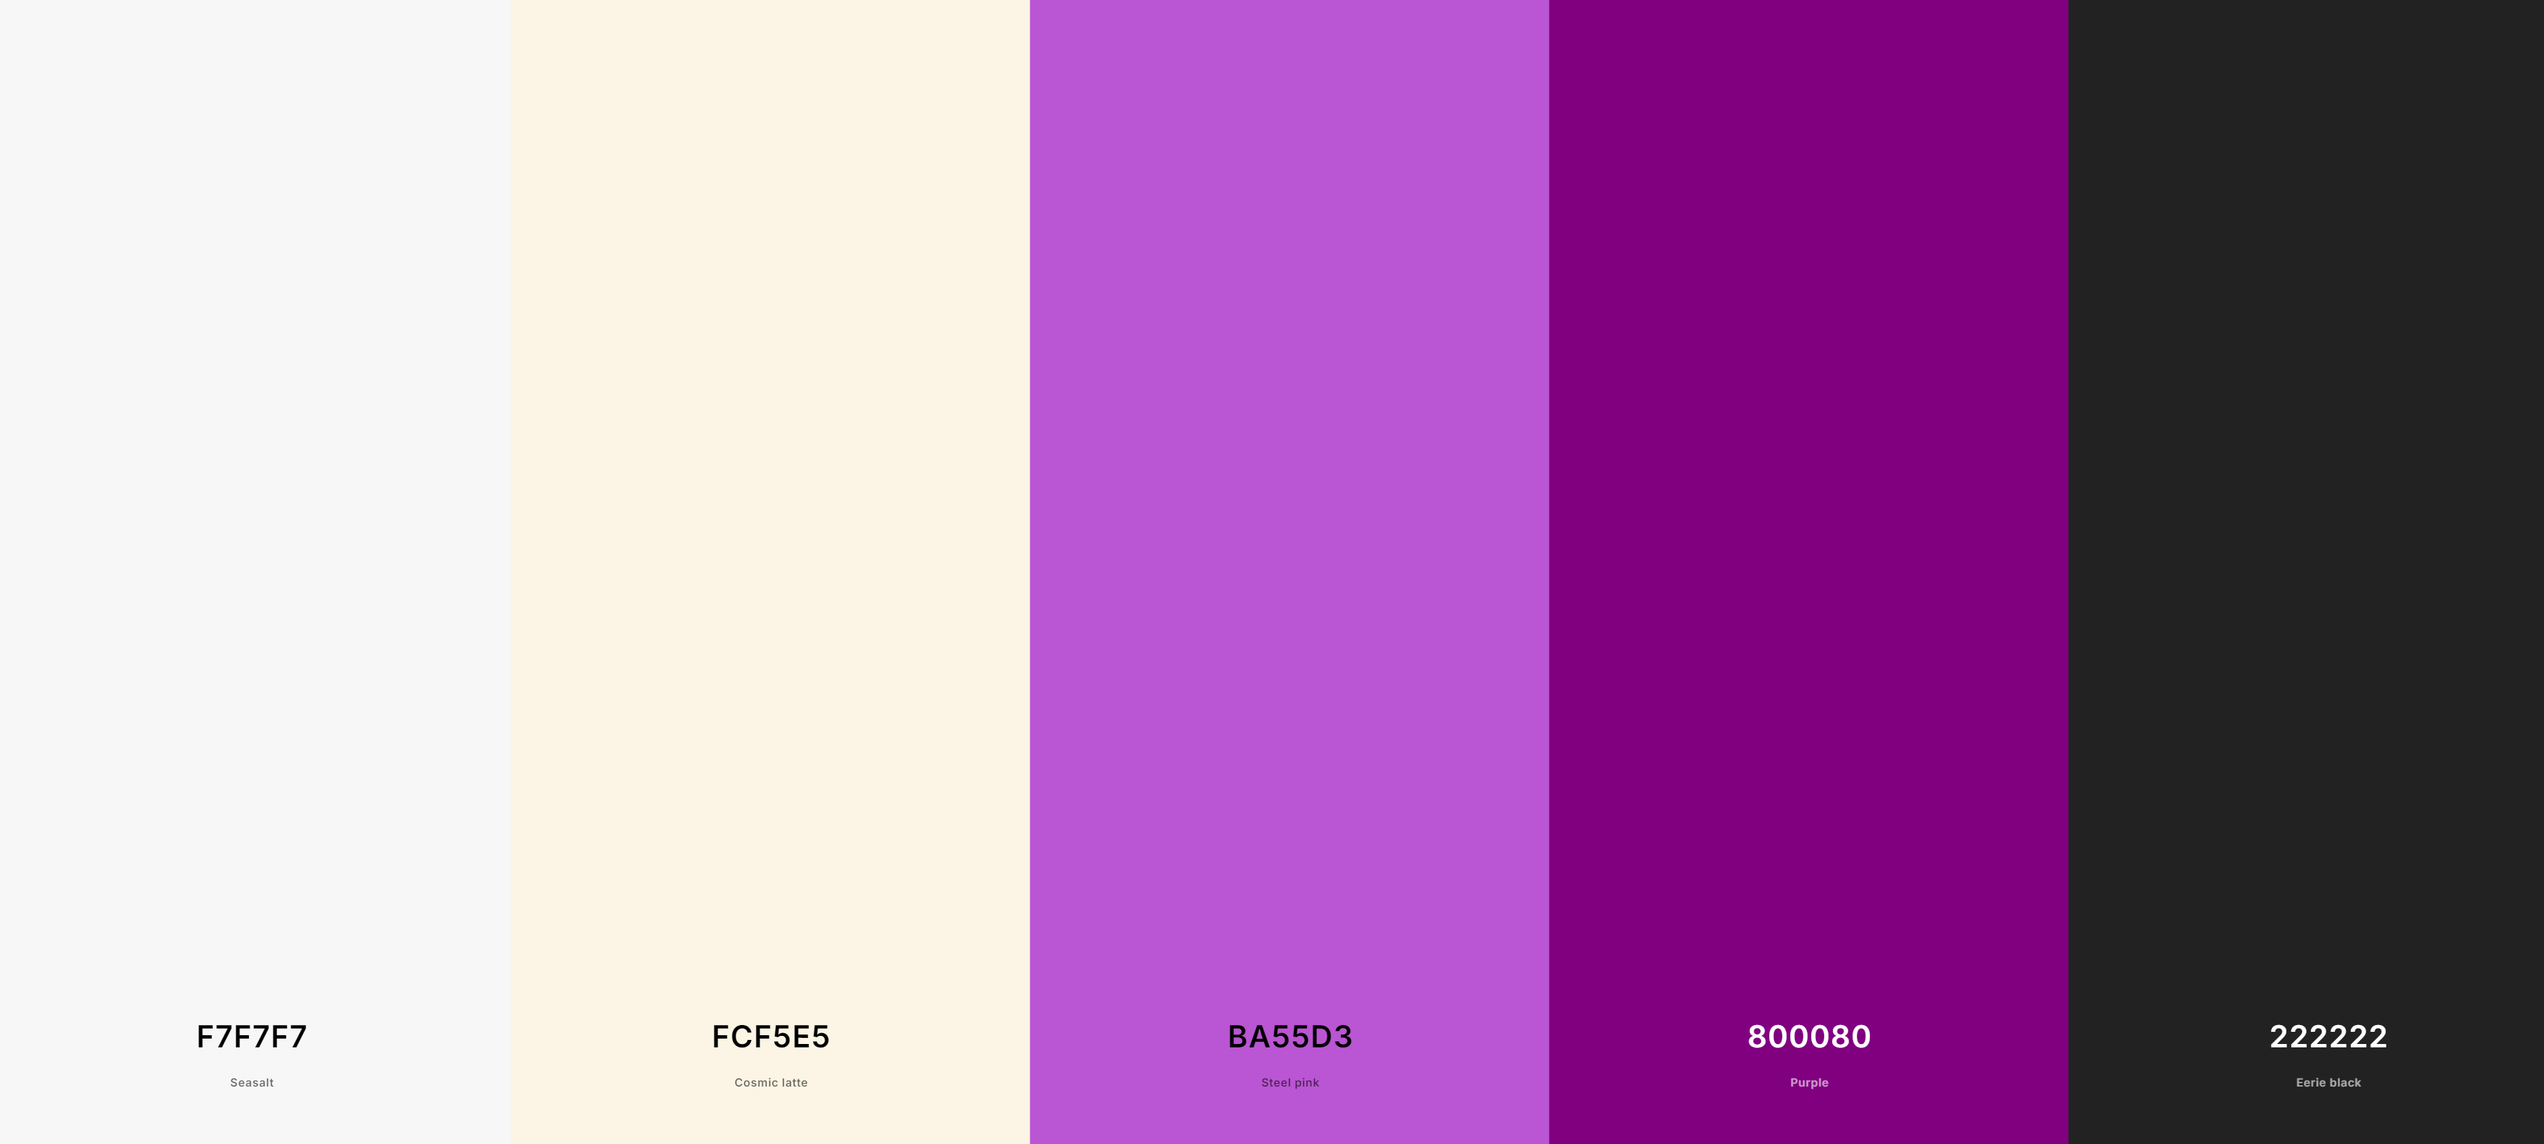
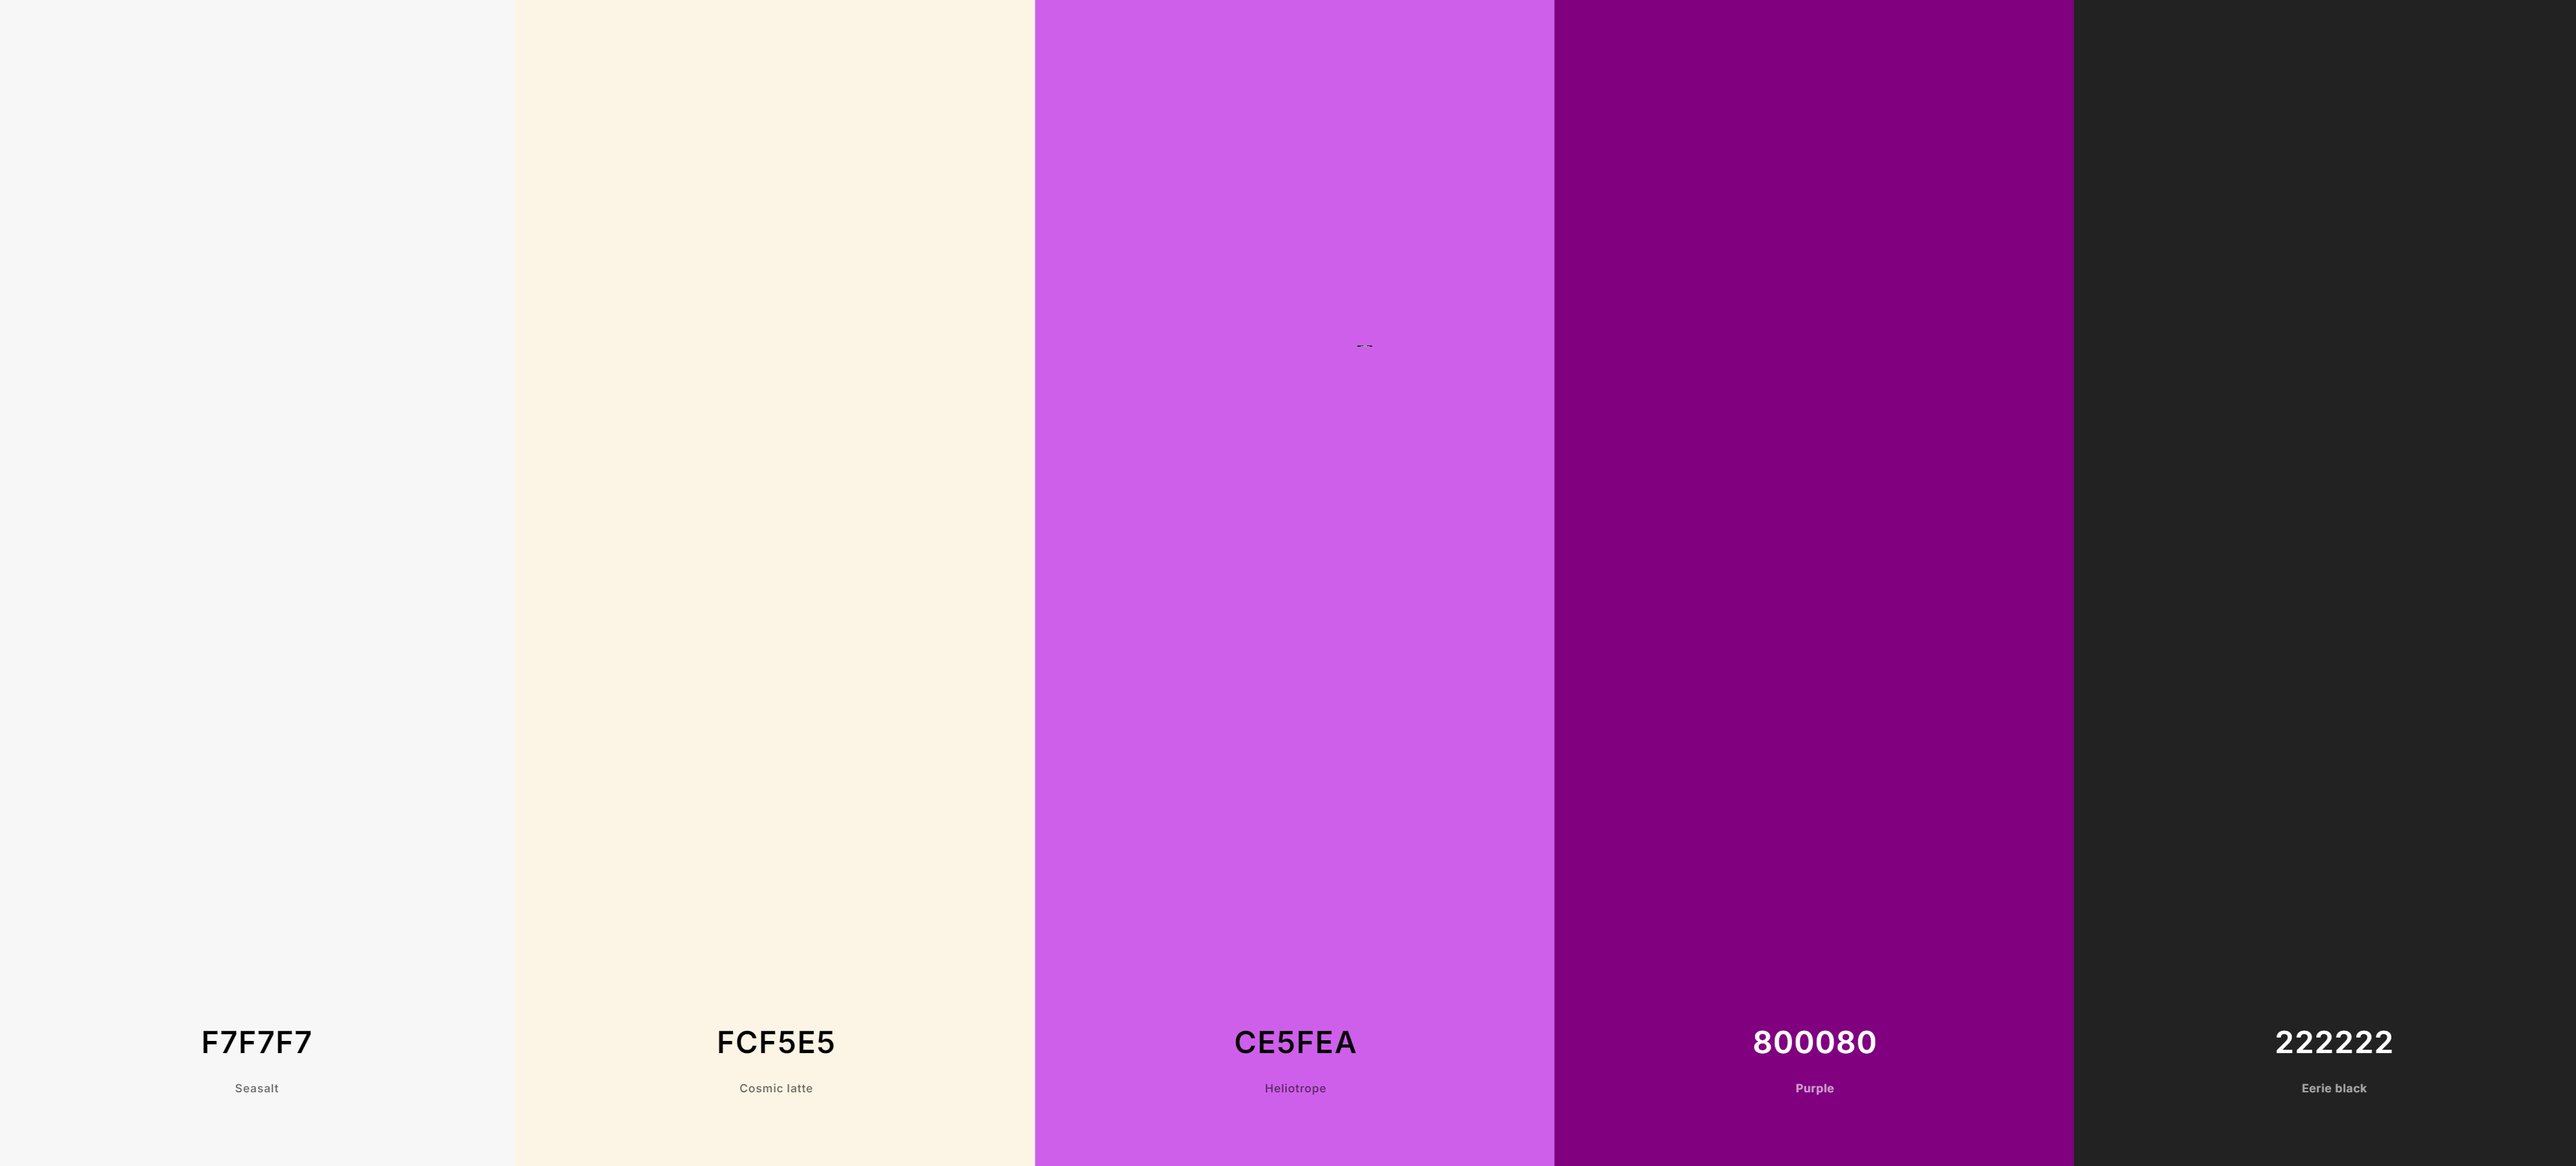
doc: README v2 ++ Testing

diff --git a/TESTING.md b/TESTING.md
@@ -1,0 +1,143 @@
+SpellSmith -  Testing
+
+Visit the deployed site: [SpellSmith](https://spellsmith-9d992f394814.herokuapp.com/)
+
+- - -
+
+## CONTENTS
+
+* [AUTOMATED TESTING](#automated-testing)
+  * [W3C Validator](#w3c-validator)
+  * [PEP8 Validator](#javascript-validator)
+  * [Lighthouse](#lighthouse)
+* [MANUAL TESTING](#manual-testing)
+  * [Testing User Stories](#testing-user-stories)
+  * [Full Testing](#full-testing)
+
+Testing was ongoing throughout the entire SpellSmith project. Chrome developer tools were utilized while building to troubleshoot any issues I discovered.
+
+During development I used google developer tools to ensure everything was working correctly and to assist with troubleshooting when things were not working as expected.
+
+I utilised the search engine Phind when I encountered an issue That id didn't know the anwer too, or could not find the awnser in when reviewing the CI lessons. I also looked on Stack Overflow to help resolve any issues with Django 5.1.1 and Bootstraps5
+
+I have run each page through Chrome developer tools to check and confirm that each page is responsive on a variety of different screen sizes.
+
+- - -
+
+## AUTOMATED TESTING
+
+### W3C Validator
+
+[W3C](https://validator.w3.org/) was used to validate the HTML on all pages of the website. It was also used to validate the CSS.
+
+* [Spellbook](assets/testing/w3/w3_spellbook.png) - Passed
+* [About](assets/testing/w3/w3_spellbook.png) - Passed, no errors found.
+* [Create a Spell](assets/testing/w3/w3_create_a_spell.png) - Passed, no errors found.
+* [Spell View](assets/testing/w3/w3_spelldetail.png) - Passed.
+
+* [style.css](assets/testing/w3/w3_stylecss.png) - Passed, no errors found.
+
+- - -
+
+### JavaScript Validator
+
+[PEP8ci](https://pep8ci.herokuapp.com/#) was used to validate the Python.
+
+* [spellbook/views.py](assets/testing/pep8/pep8_sb_views.png) - E501 on Line 70, left because could not break up the link; future fix is to use a variable.
+* [spellbook/urls.py](assets/testing/pep8/pep8_sb_urls.png) - Passed.
+* [spellbook/models.py](assets/testing/pep8/pep8_sb_models.png) - Passed.
+* [spellbook/forms.py](assets/testing/pep8/pep8_sb_forms.png) 4 E231 errors that do not refer to anything in the code
+
+- - -
+
+### Lighthouse
+
+I used Lighthouse within the Chrome Developer Tools to test the performance, accessibility, best practices and SEO of the website. All pages have 100% accessability.
+
+![Lighthouse results](assets/testing/lighthouse/lighthouse.png)
+
+- - -
+
+## MANUAL TESTING
+
+### Testing User Stories
+
+`Site Owner`
+
+| Goals | How are they achieved? |
+| :--- | :--- |
+| As the Site Owner I can create, read, update and delete all spells so that I can manage the site's content | SpellSmith has a hidden admin view that allows full CRUD for each spell entry and user. |
+
+`Site User`
+
+|  Goals | How are they achieved? |
+| :--- | :--- |
+| As a Site user, I can Create, view, modify and delete my inputs so that I can curate the homebrew spells I'm making | Users can view all spells, create new spells and update and delete the spells they have written |
+|As a Site User, I can click on the About link so that I can read about the site.| The User has access to the about page where they can find out more information about DC20 and the Site, as well as social links where you'd expect on a site following convestion.|
+| As a Site User I can See when I have completed an action so that I receive use feedback from the site. | SpellSmith has an alert system using django messaging to display feedback to the user, the create a spell form also has visual indication of what fields are requires and feedback validation. |
+|As a Site User, I can create draft spells so that I can finish writing the content later | This is a Key Funtionality and was covered with the update part of CRUD, Future updates will expand on this.|
+
+- - -
+
+### Full Testing
+
+Full testing was performed on the following devices:
+
+* Desktop:
+  * Homebuilt Rig
+* Mobile Devices:
+  * Samsung Galaxy S10+.
+
+Each device tested the site using the following browsers:
+
+* Google Chrome
+* Firefox
+* Google Chrome developer tools to adjust screen sizes.
+
+Additional testing was taken by friends on a variety of devices and screen sizes. They reported no issues when navigating the site.
+
+`All Pages`
+
+| Feature | Expected Outcome | Testing Performed | Result | Pass/Fail |
+| --- | --- | --- | --- | --- |
+| The Site's title | Link directs the user back to the home page | Clicked title | Home page reloads | Pass |
+| Navbar: Spellbook         | Link directs the user back to the home page | Clicked on Anchor 'Spellbook' | Browser navigates to homepage | Pass |
+| Navbar: About             | Link directs the user to the about page | Clicked on Anchor 'About' | Browser navigates to About page | Pass |
+| Navbar: Create a Spell    | Link directs the user to the form page | Clicked on Anchor 'create a spell' while logged in | Browser navigates to Create page | Pass |
+| Navbar: Logout            | Link directs the user to the logout page | Clicked on Anchor 'Logout' while logged in | Browser navigates to logout page | Pass |
+| Navbar: Register          | Link directs the user to the Register page | Clicked on Anchor 'Register' while logged out | Browser navigates to register page | Pass |
+| Navbar: Login             | Link directs the user to the login page | Clicked on Anchor 'Login' while logged out | Browser navigates to loh page | Pass |
+| Footer: social links      | Social buttons direct to matching socials in new tab | Clicked on social anchours | Opens the correct social page in a new tab | Pass |
+
+`Spellbook page`
+
+| Feature | Expected Outcome | Testing Performed | Result | Pass/Fail |
+| --- | --- | --- | --- | --- |
+| Spell cards linked | Link directs the user to the associated spell's detail view | Clicked spell card | Directed to correct spell | Pass |
+| All cards - hover effect | All text on the cards should turn purple on hover  | Hover over each card on the page | Each card displayed the correct styling when hovered over | Pass |
+| Pagnaite the view | The user should be able to click next and previous if there are more than 12 spells | create 13 spells and move back and forth between the pages | PENDING | PENDING |
+
+`Spell Detail page`
+
+| Feature | Expected Outcome | Testing Performed | Result | Pass/Fail |
+| --- | --- | --- | --- | --- |
+| DC20 spell format | The view should display all of the fields from the spell model | viewed spell | All fields present, but formatting on the text fields not present | Partial Pass : [Bug Raised](https://github.com/LaurieAnderson92/Spellsmith/issues/38) |
+| Buttons not visible unless logged in | The view shouldn't display the delete or edit buttons unless the user is logged in and they are viewing a spell they created | viewed spell while logged out | Buttons not present | Pass |
+| Deleting a Spell | The spell creator should be able to delete a spell via the button | deleted a spell | Spell no longer exists, warning message was displayed first | Pass |
+| Editing a Spell | The spell creator should be able to edit a spell via the button | edited a spell | a instance of create a spell was opened with data populated, when submitted the spell was edited | Pass |
+
+`Create a Spell page`
+| Feature | Expected Outcome | Testing Performed | Result | Pass/Fail |
+| --- | --- | --- | --- | --- |
+| Creating a Spell | The user should be able to create a spell via the form | created a spell | Spell now exists | Pass |
+| Buttons not visible unless logged in | The view shouldn't display the delete or edit buttons unless the user is logged in and they are viewing a spell they created | viewed spell while logged out | Buttons not present | Pass |
+| Form validation | The form shouldn't submit if the field data is incorect and should guide the user to what needs to be chnaged | Tried to create a spell with invalid data | form not submitted, feedback presented | Pass |
+
+
+`Login`
+
+| Feature | Expected Outcome | Testing Performed | Result | Pass/Fail |
+| --- | --- | --- | --- | --- |
+| Create a User | Able to create a user | followed instructions to create a user | User was created | Pass |
+| Login as a user | Able to login | followed instructions to login | User was authenticed | Pass |
+| Logout as a user | Able to logout | followed instructions to logout | User was signed out | Pass |

diff --git a/README.md b/README.md
@@ -86,8 +86,8 @@ Key Features
 #### ba55d3 | Cosmic Latte
 * Cosmic Lattee was picked as it is the closest colour that resembled parchment but still has a soft colour for a nice contrast with the default text colour and the colour when the text is highlighted
 
-#### fcf5e5 | Steel Pink 
-* Steel pink is the same as Purple, but a few shades lighter with more green. I picked this colour as the highlighted text for the nav bar and the footer to better contast with the dark background
+#### #ce5fea | Heliotrope
+* Heliotrope is the same as Purple, but a few shades lighter with more green. I picked this colour as the highlighted text for the nav bar and the footer to better contast with the dark background for ally reasions
 
 #### 222222 | Purple
 * Purple was picked as the key accent colour as it is the same shade of purple that DC20 uses, and so creates a association between SpellSmith and DC20 in the vewers mind.
